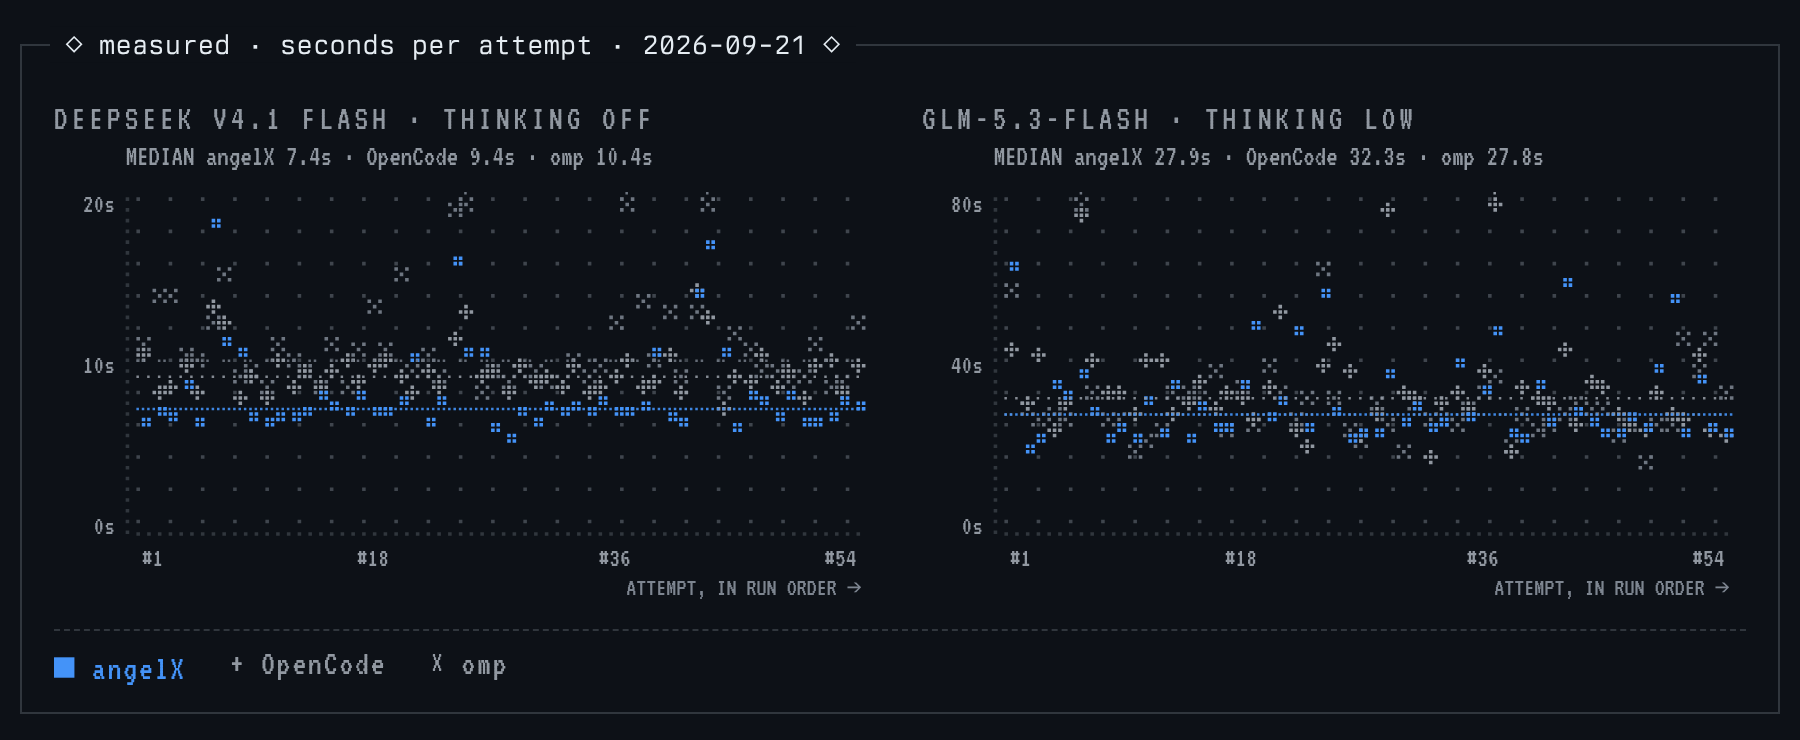
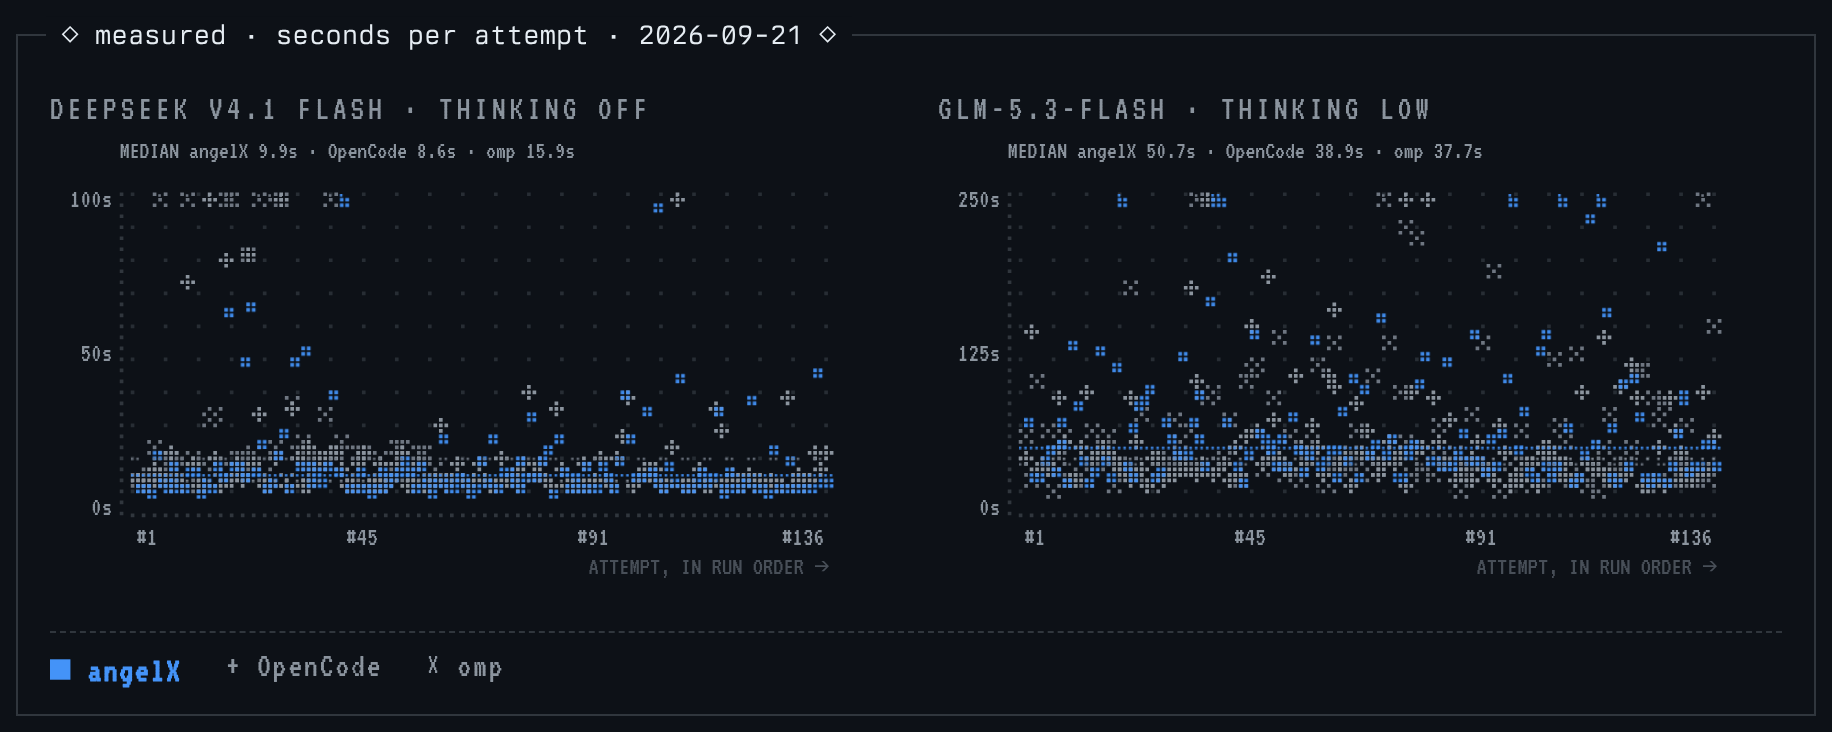
docs(bench): publish the full 136-task polyglot numbers
All six cells are in: GLM/angelX and GLM/omp finished their 136 tasks
(they were at 38 and 73 on the site). bench-data.js is regenerated from
results-20260921-full.json, the site footnote lists both models' scores,
and the README carries the per-cell table plus the five plots re-rendered
from the site's own bench.js in GitHub's light and dark palettes.

diff --git a/scripts/build_polyglot_bench_data.py b/scripts/build_polyglot_bench_data.py
@@ -10,7 +10,7 @@ from pathlib import Path
 
 HERE = Path(__file__).resolve().parent
 REPO_ROOT = HERE.parent
-RESULTS_FILE = Path("~/angel_tests/angelX-bench/polyglot-20260921/results-20260921-final.json")
+RESULTS_FILE = Path("~/angel_tests/angelX-bench/polyglot-20260921/results-20260921-full.json")
 SITE_JS = REPO_ROOT / "website" / "js" / "bench-data.js"
 
 HARNESS_ORDER = ["angelx", "omp", "opencode"]

diff --git a/README.md b/README.md
@@ -32,14 +32,31 @@ ANGEL_VIDEO=0 ./bin/angelX
 
 ## Benchmarks
 
+### polyglot-v1 · 136 tasks · 2026-09-21
+
+136 repository-repair tasks (48 JS, 34 Python, 30 Rust, 24 C++) from the Aider polyglot set, one attempt per task, 600 s wall clock per attempt, pass/fail decided by each task's own tests. Wall is the median agent time per attempt. Tokens are totals across the cell.
+
+| model | harness | solved | wall (median) | calls / task | input tokens | cache hit | output tokens |
+|---|---|---:|---:|---:|---:|---:|---:|
+| DeepSeek V4.1 Flash, thinking off | angelX | 133 / 136 | 9.9 s | 7.5 | 11.5 M | 88% | 257 k |
+| | OpenCode 1.18.31 | 132 / 136 | 8.6 s | 12.5 | 67.7 M | 97% | 349 k |
+| | oh-my-pi 18.2.4 | 53 / 59 * | 15.9 s | 38.3 | 148.1 M | 99% | 512 k |
+| GLM-5.3-Flash, thinking low | angelX | 135 / 136 | 50.7 s | 8.9 | 10.9 M | 84% | 256 k |
+| | OpenCode 1.18.31 | 133 / 136 | 38.9 s | 7.4 | 10.1 M | 85% | 179 k |
+| | oh-my-pi 18.2.4 | 133 / 136 | 37.7 s | 8.9 | 24.1 M | 90% | 203 k |
+
+\* oh-my-pi on DeepSeek stopped after 59 tasks at its 200M-token budget cap; the other five cells ran all 136.
+
+angelX runs a verification stage before it reports a task done; that is where its extra wall time on GLM goes. Raising the thinking level moves it further along the same trade: slower, more checked.
+
 <picture>
   <source media="(prefers-color-scheme: dark)" srcset="docs/images/bench/race-dark.png">
-  <img alt="The race to 54: solved attempts against agent time for angelX, OpenCode and omp, on DeepSeek V4.1 Flash and GLM-5.3-Flash" src="docs/images/bench/race-light.png">
+  <img alt="The race to 136: finished attempts against agent time for angelX, OpenCode and omp, on DeepSeek V4.1 Flash and GLM-5.3-Flash" src="docs/images/bench/race-light.png">
 </picture>
 
 <picture>
   <source media="(prefers-color-scheme: dark)" srcset="docs/images/bench/attempts-output-dark.png">
-  <img alt="Graded attempts (324 of 324 passed) and output tokens and model calls per task, for angelX, OpenCode and omp" src="docs/images/bench/attempts-output-light.png">
+  <img alt="Graded attempts (719 of 739 passed) and output tokens and model calls per task, for angelX, OpenCode and omp" src="docs/images/bench/attempts-output-light.png">
 </picture>
 
 <picture>
@@ -49,7 +66,7 @@ ANGEL_VIDEO=0 ./bin/angelX
 
 <picture>
   <source media="(prefers-color-scheme: dark)" srcset="docs/images/bench/context-dark.png">
-  <img alt="Input tokens burned across all 54 attempts, for angelX, OpenCode and omp on both models" src="docs/images/bench/context-light.png">
+  <img alt="Input tokens burned across all attempts, for angelX, OpenCode and omp on both models" src="docs/images/bench/context-light.png">
 </picture>
 
 <picture>
@@ -57,7 +74,7 @@ ANGEL_VIDEO=0 ./bin/angelX
   <img alt="Running cache hit rate over the run, for angelX, OpenCode and omp on both models" src="docs/images/bench/cache-light.png">
 </picture>
 
-<sub>* All tests performed on the <a href="https://github.com/PrimeIntellect-ai/verifiers">Prime Intellect evaluators</a> (Verifiers v0.3.1) · prime-quality-v1: 18 repository-repair tasks (8 JS, 7 Python, 3 Rust), 3 runs per harness per model, 324 graded attempts, pass/fail decided by each task’s own tests · angelX a5e788f · oh-my-pi 18.2.4 · opencode 1.18.31 · DeepSeek V4.1 Flash, thinking off · GLM-5.3-Flash, thinking low (the model’s floor) · temperature 0 · 8,192-token output cap · fresh environment per attempt · 2026-09-21</sub>
+<sub>* All tests performed on the <a href="https://github.com/PrimeIntellect-ai/verifiers">Prime Intellect evaluators</a> (Verifiers v0.3.1) · polyglot-v1: 136 repository-repair tasks (48 JS, 34 Python, 30 Rust, 24 C++), one attempt per task, pass/fail decided by each task’s own tests · angelX 7373b11 · oh-my-pi 18.2.4 · opencode 1.18.31 · DeepSeek V4.1 Flash, thinking off · GLM-5.3-Flash, thinking low (the model’s floor) · temperature 0 · 8,192-token output cap · 600 s wall clock per attempt · fresh environment per attempt · 2026-09-21</sub>
 
 ## Research and credits
 
